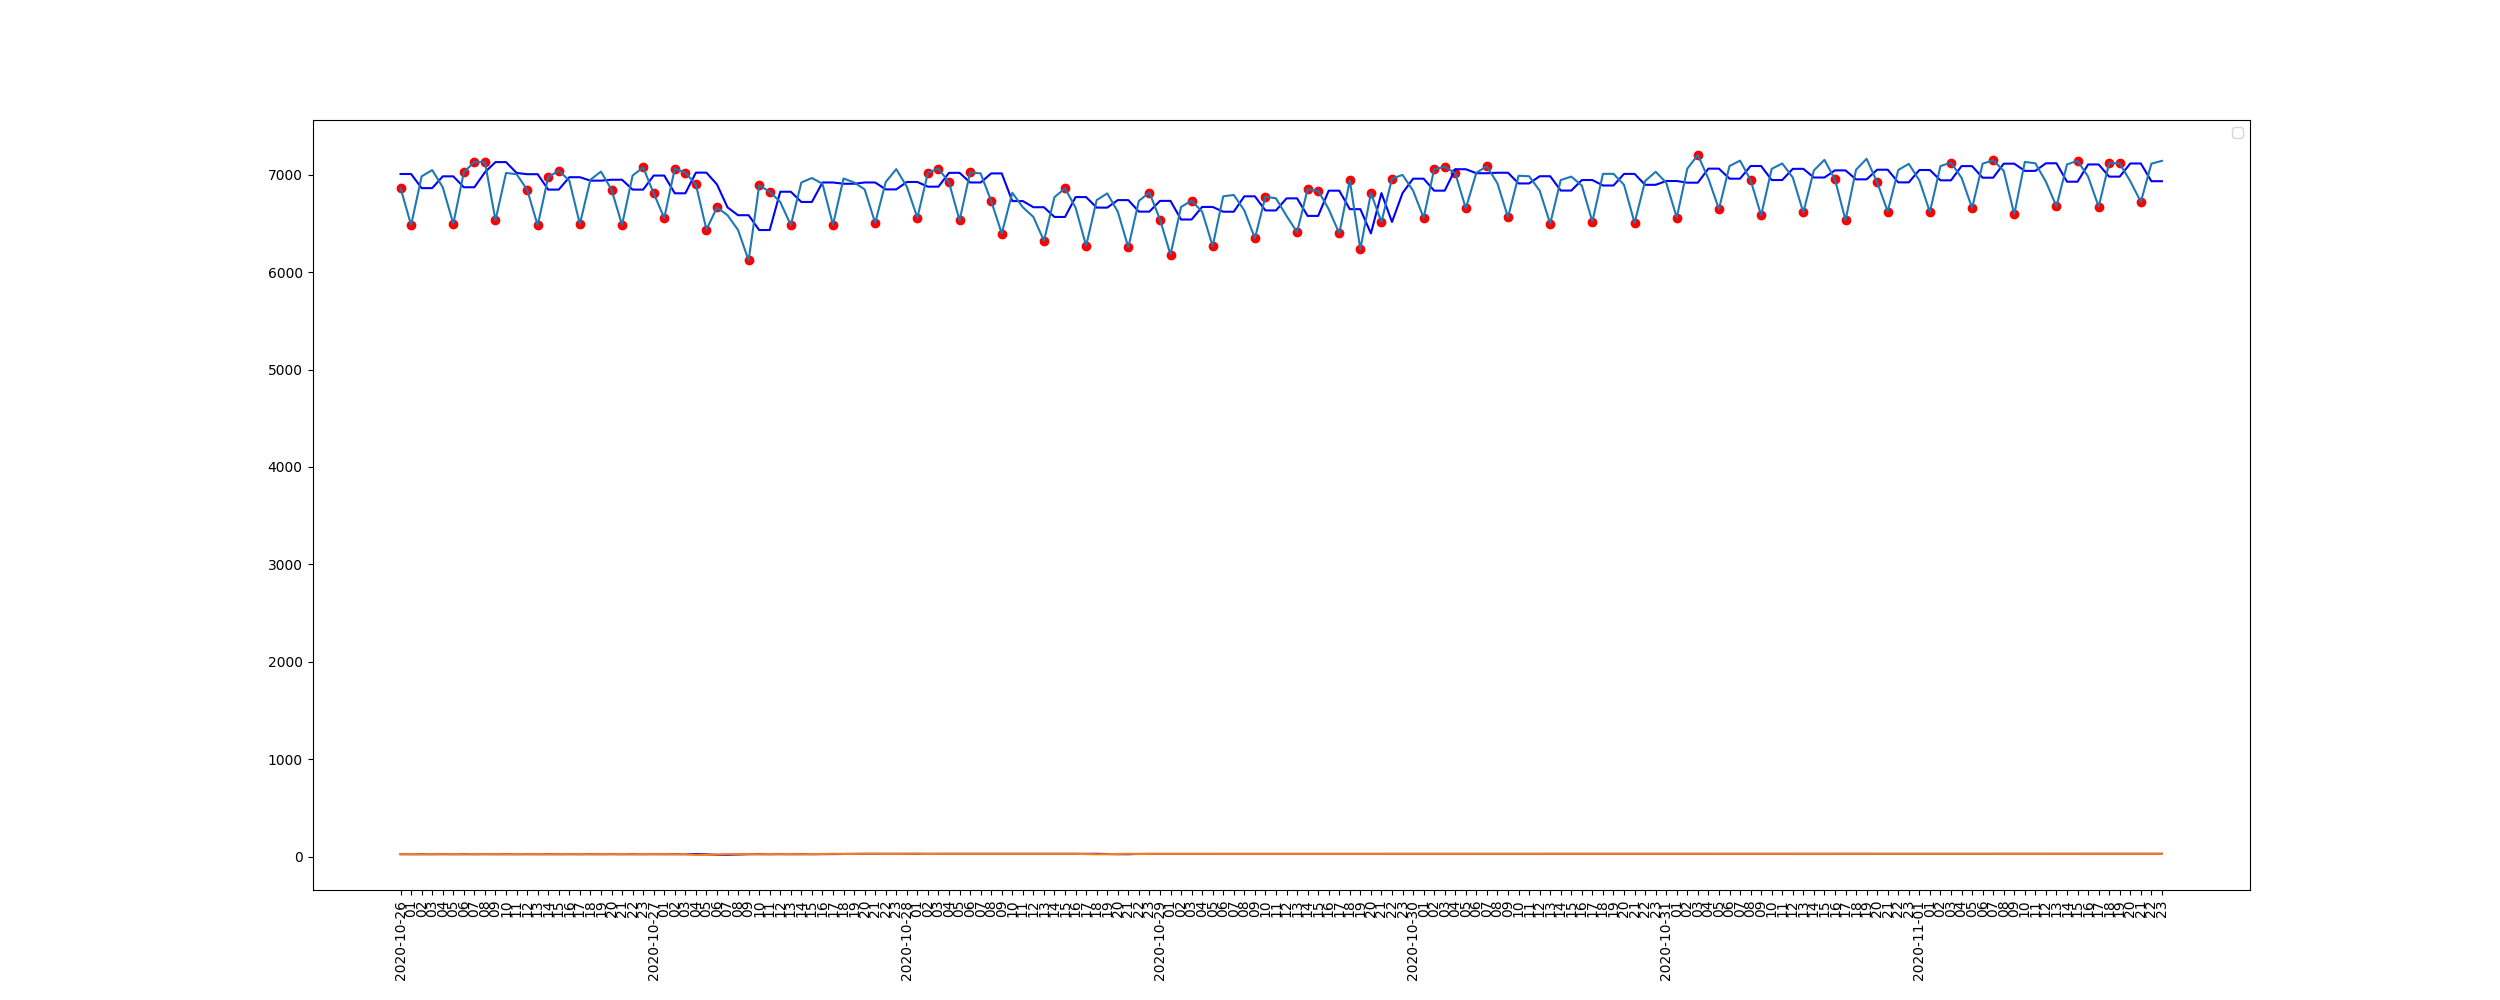
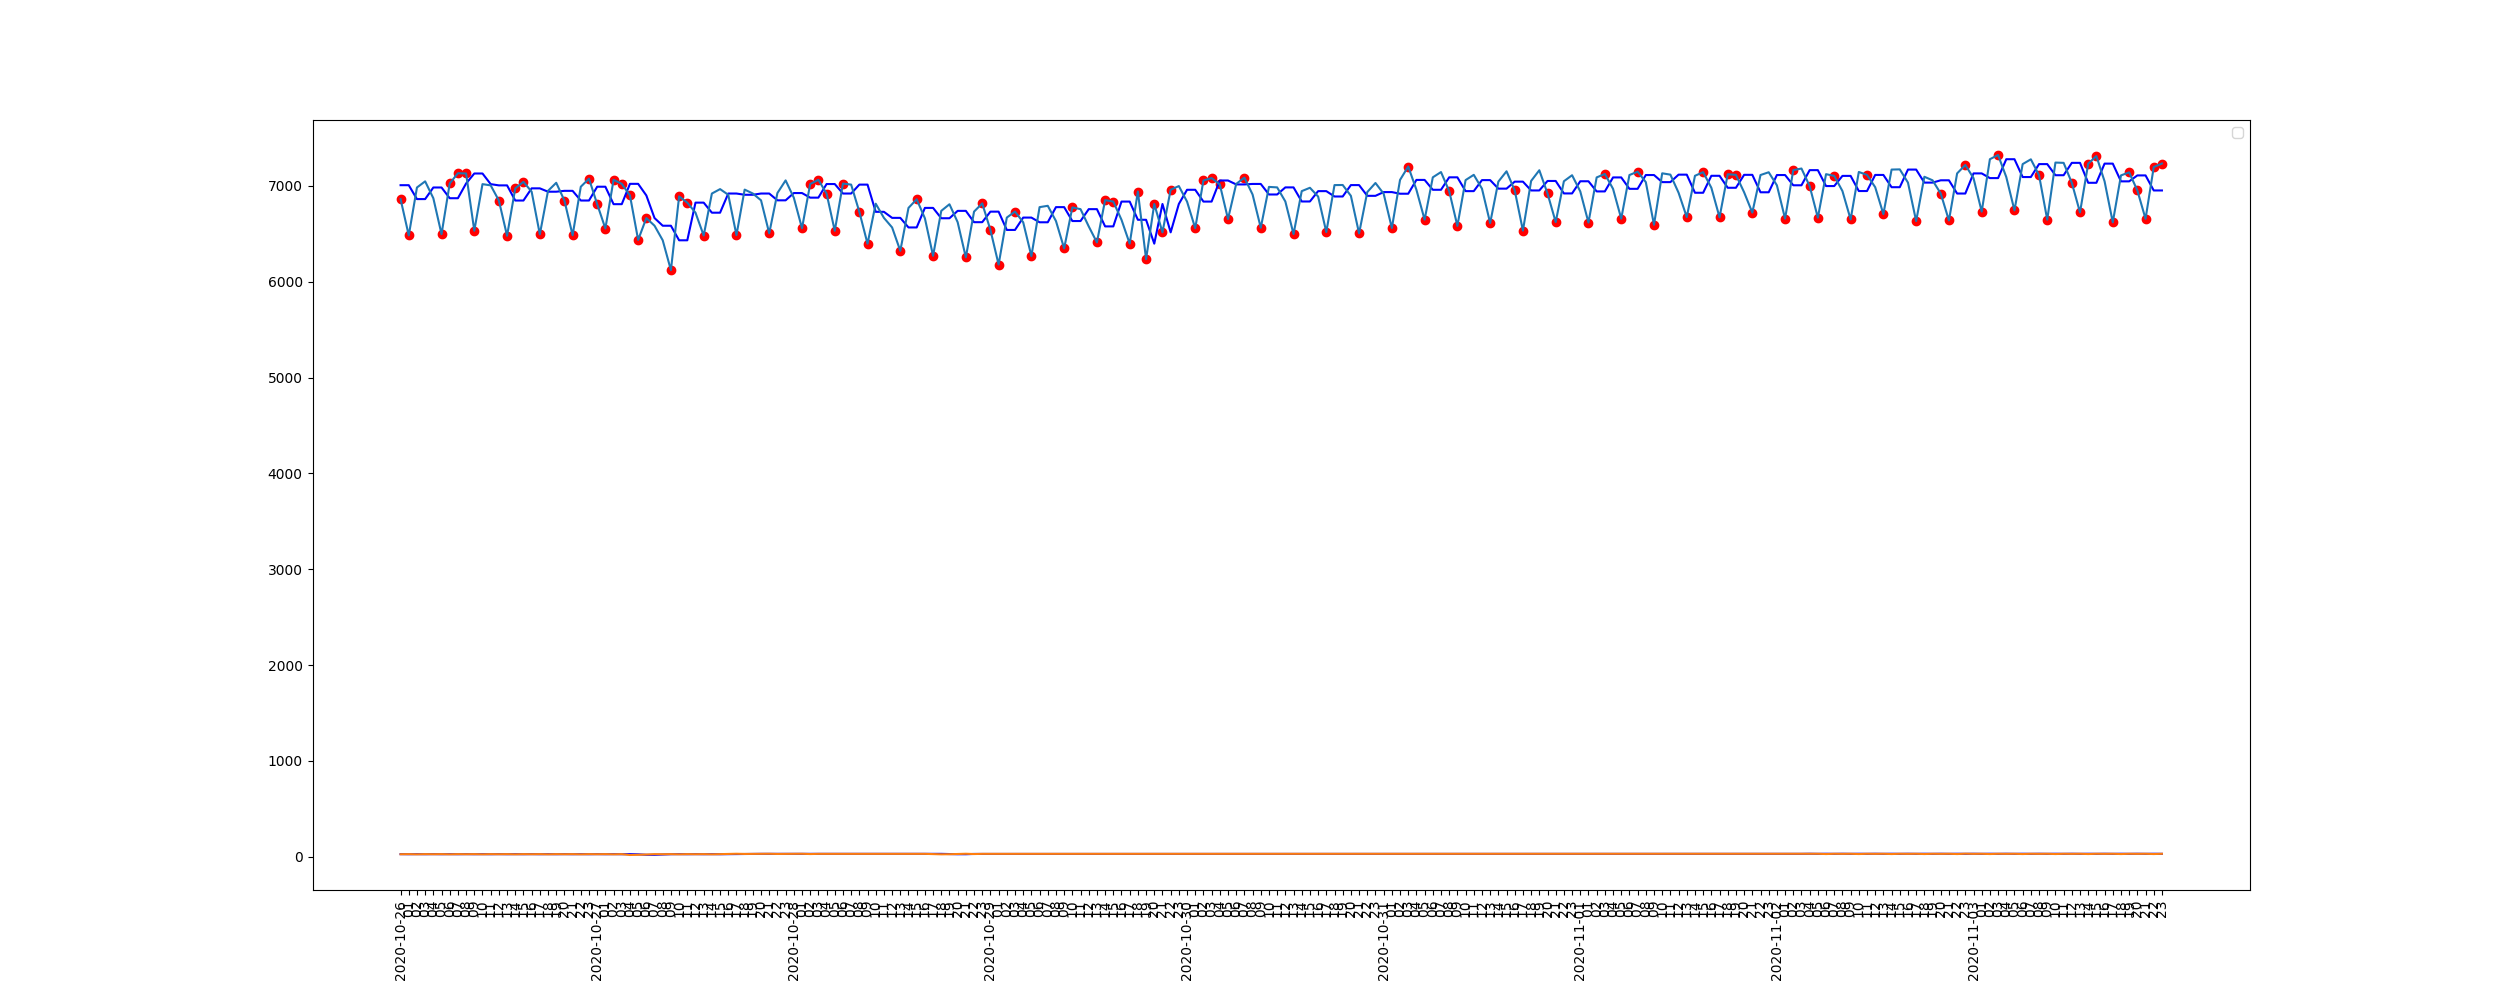
new r value graphs

diff --git a/phase3_scripts/fw_model/fw_link_monitoring.py b/phase3_scripts/fw_model/fw_link_monitoring.py
@@ -3,7 +3,7 @@ import sys
 from tqdm import tqdm
 import numpy as np
 from math import sqrt
-from scipy.stats import chisquare, chi2_contingency
+from scipy.stats import chisquare
 import time
 import ast
 
@@ -84,20 +84,19 @@ for source in fw_dict.keys():
             #results_list.append(val[1])
     #first compute the chi sqaured test
     p_value = chisquare(ref_list, results_list)[1]
-    arry = [ref_list, results_list]
+    #arry = [ref_list, results_list]
     #print(arry)
     if source == "60" and date == "2020-10-30" and hour == "18":
         print(p_value)
         print("ref list", ref_list)
         print("results list", results_list)
-        print(chi2_contingency(arry)[1])
         print(chisquare(results_list, ref_list,ddof=10)[0])
     if len(ref_list) > 0 and len(results_list) > 0:
-        #p_value = chi2_contingency(arry)[1]
+        #p_value = chi2_contingency(arr)[1]
         if p_value <= 0.01:
             r_val_dict = r_values(fw_dict[source])
             for dest in r_val_dict:
-                if r_val_dict[dest] < -0.25 or r_val_dict[dest] > 0.25:
+                if r_val_dict[dest] < -0.4 or r_val_dict[dest] > 0.4:
                     alarm_dict["alarms"].append((source, dest, r_val_dict[dest], p_value))
 
 #save alarms and references
